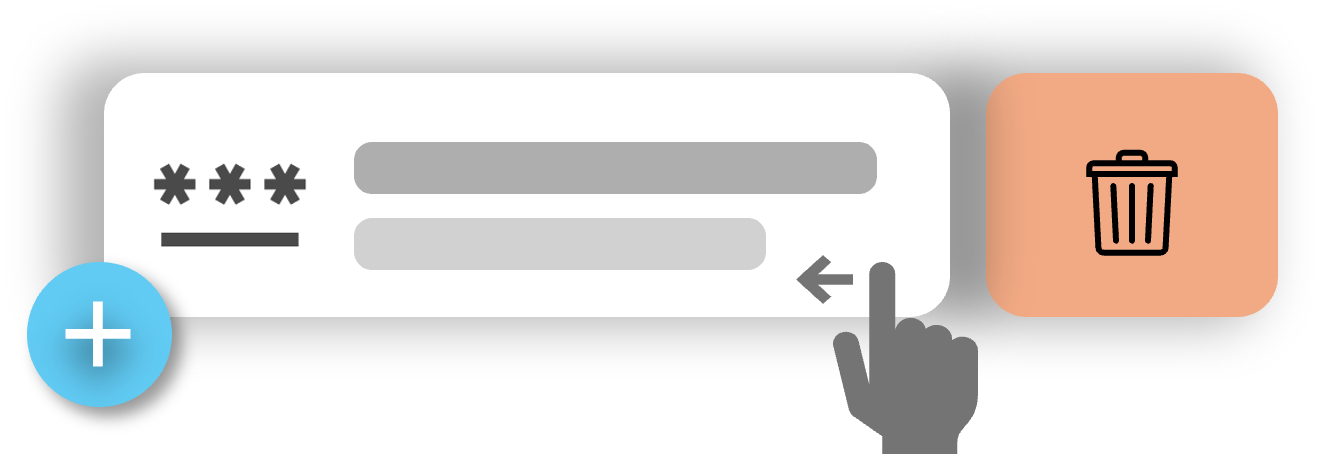
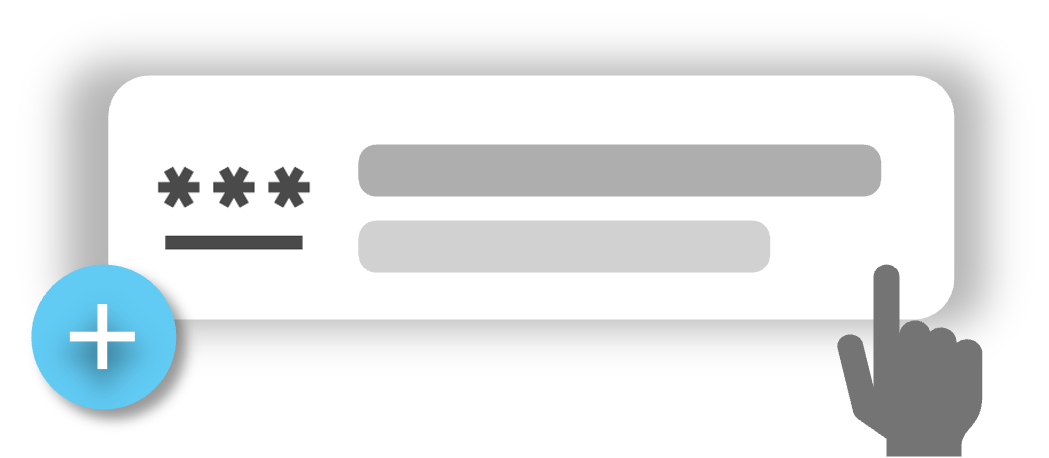
Help buttons: updated content / style

Changed region(s): [[0.0, 0.1542, 0.9762, 1.0]]

diff --git a/lib/pages/Tabs/passwords.dart b/lib/pages/Tabs/passwords.dart
@@ -263,7 +263,7 @@ class _PasswordManagerPageState extends State<PasswordManagerPage> {
           ),
           const SizedBox(height: 20),
           const Text(
-            "Use the '+' button to create Passwords. Swipe left to delete.",
+            "Use the '+' button to create Passwords. Tap to modify or delete a password.",
             textAlign: TextAlign.center,
             style: TextStyle(),
           )

diff --git a/lib/pages/Tabs/notes.dart b/lib/pages/Tabs/notes.dart
@@ -37,7 +37,7 @@ class _NotesPageState extends State<NotesPage> {
     showDialog(
       context: context,
       builder: (BuildContext context) {
-        return AlertDialog(
+        return FrostedAlertDialog(
           title: const Text(
             "Adding Notes and Folders",
             style: TextStyle(fontSize: 20, fontWeight: FontWeight.bold),
